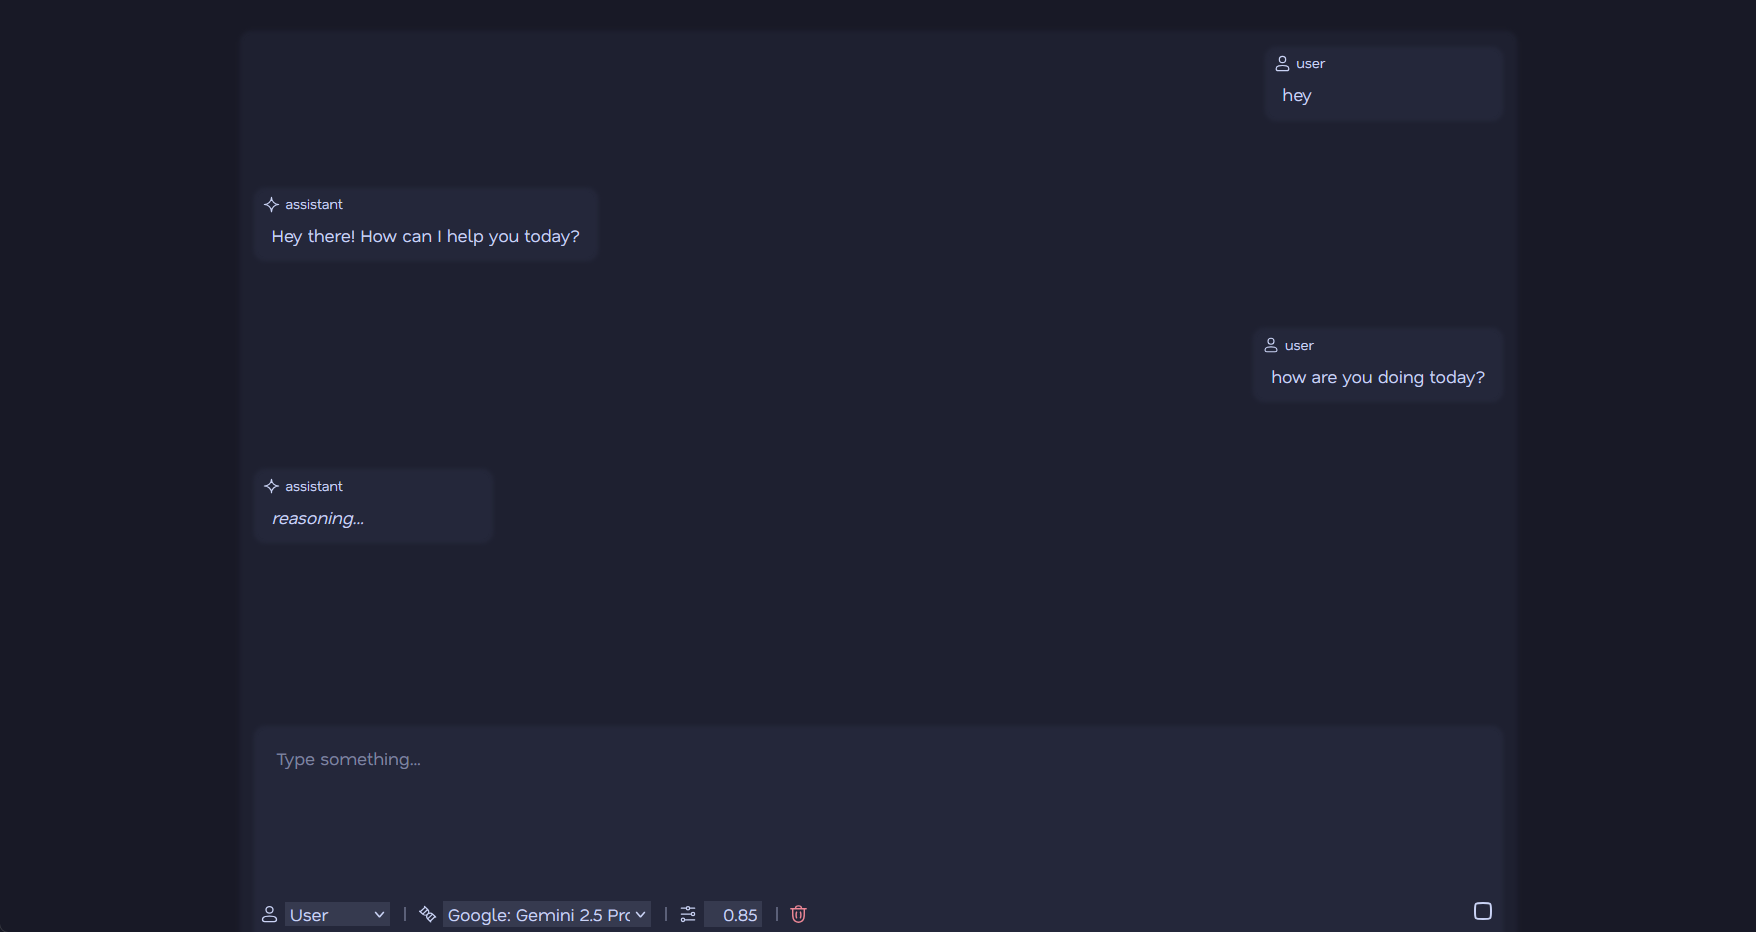
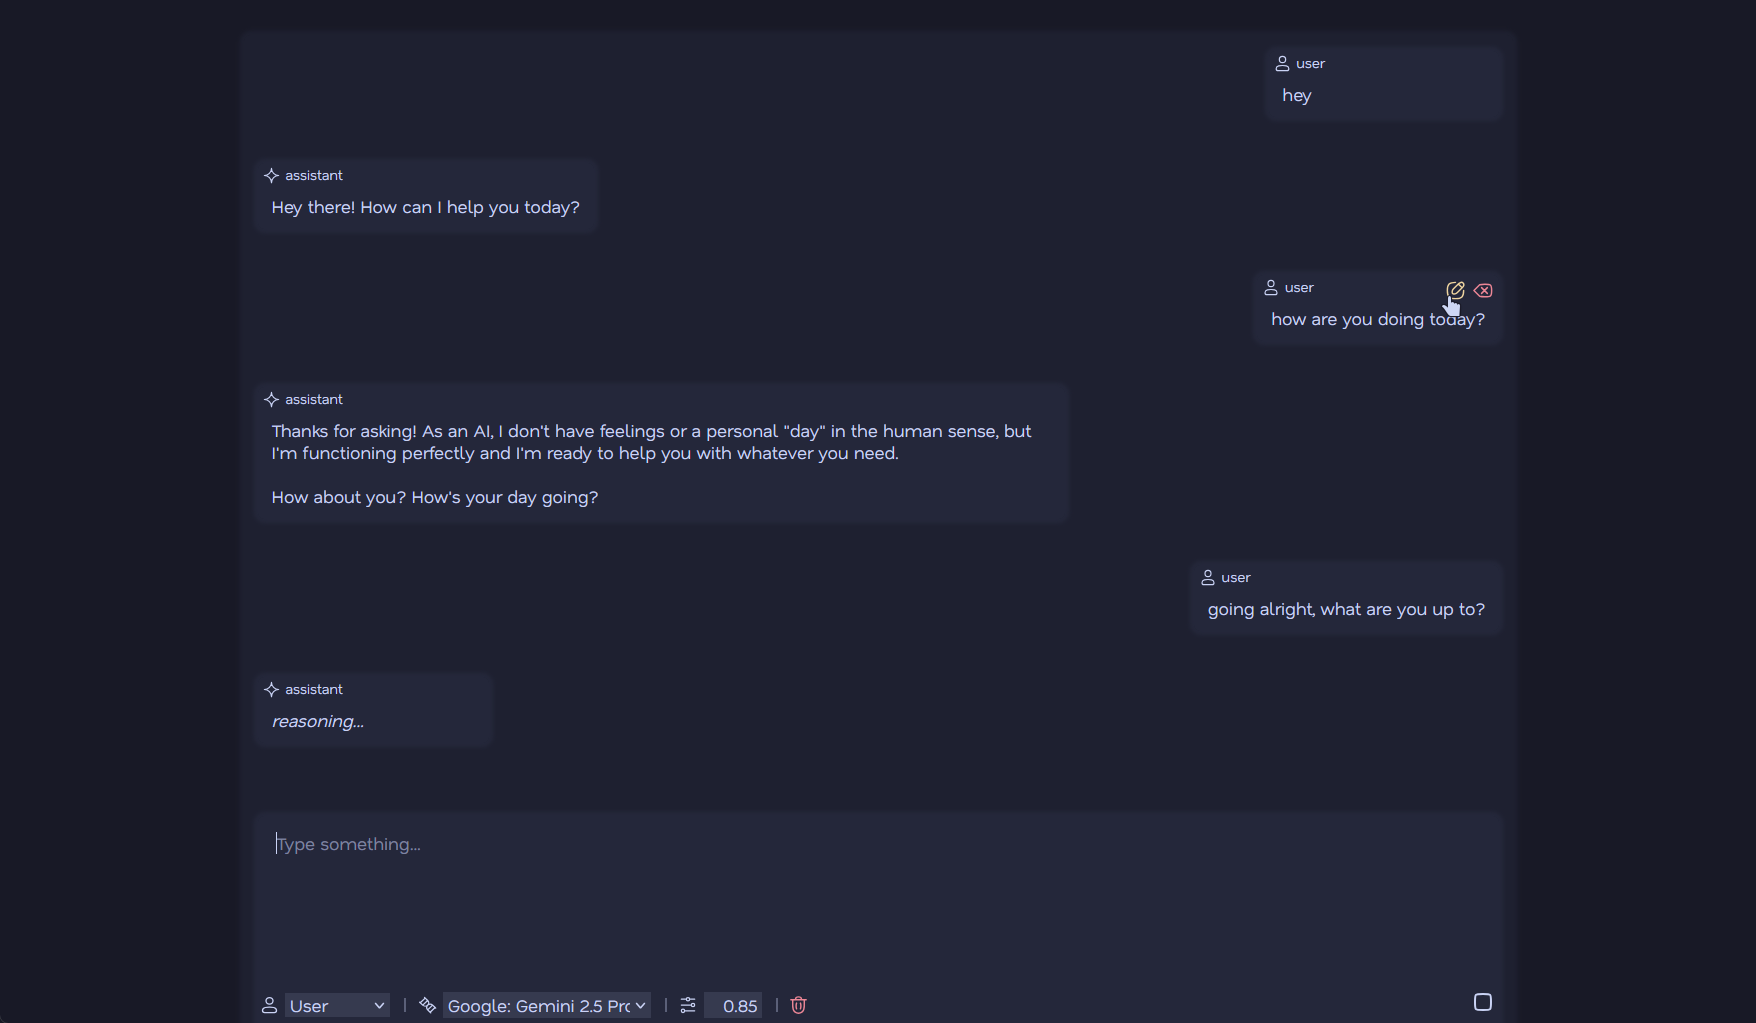
better screenshot

diff --git a/static/chat.css b/static/chat.css
@@ -41,7 +41,7 @@ body {
 #messages {
 	display: flex;
 	flex-direction: column;
-	gap: 65px;
+	gap: 40px;
 	height: 100%;
 	overflow-y: auto;
 	padding: 14px 12px;
